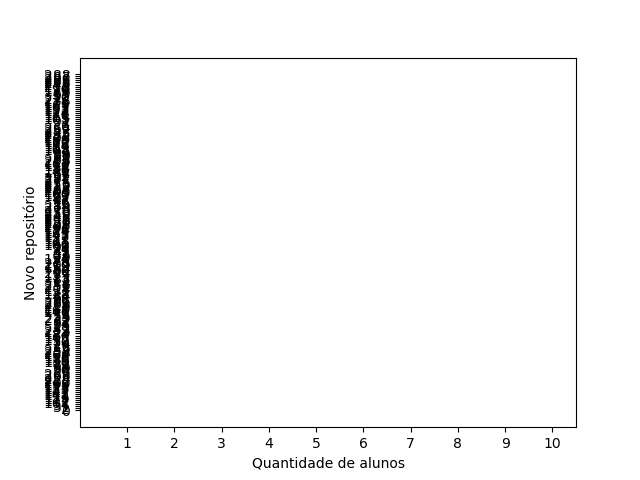
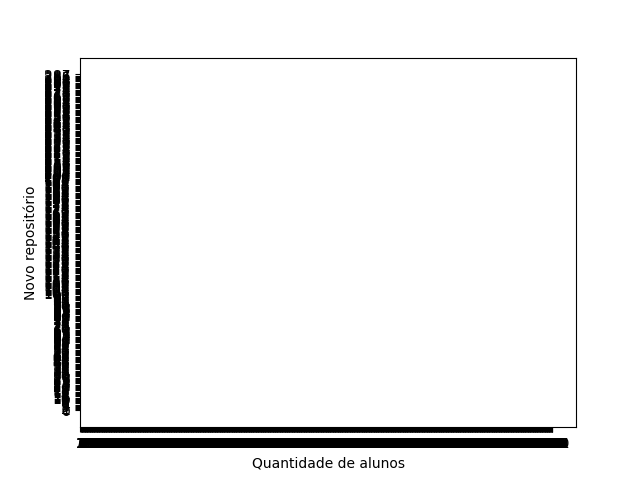
análise dos materiais que foram removidos - TODO: frequência de uso dos materiais

Changed region(s): [[0.125, 0.875, 0.9062, 0.9375], [0.0625, 0.1562, 0.125, 0.875]]

diff --git a/andre/evolutionary-computation/natalie/main.py b/andre/evolutionary-computation/natalie/main.py
@@ -7,10 +7,10 @@ from collections import defaultdict
 import matplotlib.pyplot as plt
 
 
-new_repository = dict()
+new_repository = dict(zip(np.arange(0, 284), np.zeros(284, dtype=int)))
 
 all_new_material = {
-    "total": 284,
+    "total": len(new_repository) - 1,
     "materials": []
 }
 
@@ -115,6 +115,10 @@ for student in initialSolution.students_list:
                     removed_materials_concepts[material_id].add(concept)
                 
                 """end:  chart report """
+            # else:
+            #     for index, mat in enumerate(materials_concepts):
+            #         if materials_concepts[mat].sum() > 0:
+            #             new_repository = add_count_to_dict(new_repository, index)
 
         student = {"student_id": student.student_id,
                    "fitness_before": student.fitnessConcepts,
@@ -129,9 +133,9 @@ for student in initialSolution.students_list:
         materials_concepts = student.materials_concepts
 
         """ start: counting frequency of use """
-        for index, mat in enumerate(materials_concepts):
-            if mat.sum() > 0:
-                new_repository = add_count_to_dict(new_repository, index)
+        # for index, mat in enumerate(materials_concepts):
+        #     if materials_concepts[mat].sum() > 0:
+        #         new_repository = add_count_to_dict(new_repository, index)
                 
         """ end: counting frequency of use """
 
@@ -167,19 +171,24 @@ fig.tight_layout(pad=4.0)
 plt.savefig('./natalie/images/' + filename)
 
 
+# for mat in new_repository:
+#     if new_repository[mat] == 0:
+#         print(mat)
 
-new_repository.update(total_added_materials)
+
+# new_repository.update(total_added_materials)
 # print(new_repository)
-y2 = list(new_repository.keys())
-x2 = list(new_repository.values())
-fig, ax = plt.subplots()
-ax.barh(np.arange(len(y2)), x2, 0.0001)
-ax.set_xticks(np.arange(min(x2), max(x2) + 1, 1))
-ax.set_yticks(np.arange(len(y2)))
-ax.set_yticklabels(y2)
-plt.ylabel('Novo repositório')
-plt.xlabel('Quantidade de alunos')
-plt.savefig('./natalie/images/repositórioXquantidadeAlunos.png')
+# print(len(new_repository))
+# y2 = list(new_repository.keys())
+# x2 = list(new_repository.values())
+# fig, ax = plt.subplots()
+# ax.barh(np.arange(len(y2)), x2, 0.0001)
+# ax.set_xticks(np.arange(min(x2), max(x2) + 1, 1))
+# ax.set_yticks(np.arange(len(y2)))
+# ax.set_yticklabels(y2)
+# plt.ylabel('Novo repositório')
+# plt.xlabel('Quantidade de alunos')
+# plt.savefig('./natalie/images/repositórioXquantidadeAlunos.png')
 
 # create report
 
